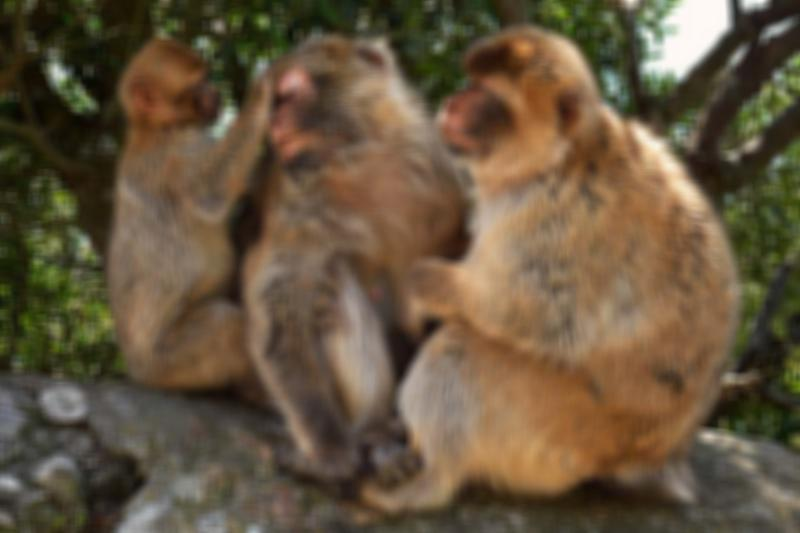
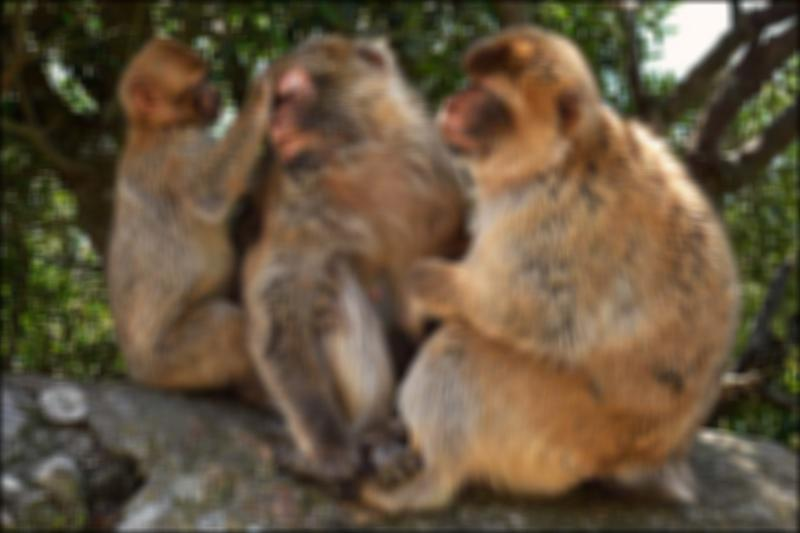
Improved gausian blur, speed and correctness

diff --git a/gausian_blur.py b/gausian_blur.py
@@ -1,36 +1,48 @@
 import numpy as np 
 from PIL import Image
 
+def gausian_blur(im, kernel):
+	''' 
+	A function that convolves im with kernel. The edges outside the image is handled as 0
+	
+	Args:
+		im: np.array of shape [H, W, 3]
+		kernel: np.array of shape [K, K]
+	
+	Returns:
+		np.array of shape [H, W, 3]
+	'''
+
+	padding = int((kernel.shape[0]-1)/2)
+
+	# add a border of zeros to make life simpler inside the for-loops
+	# pads im with zero in top, bottom, left, right, but not in color
+	pad_im = np.pad(im, ((padding,padding), (padding,padding), (0,0)), 'constant')
+
+	blurred = np.zeros(im.shape)
+
+	for row in range(padding, im.shape[0] + padding): # rows
+		for col in range(padding, im.shape[1] + padding): # columns
+			for color in range(im.shape[2]): # colors
+				# pick out a part of the image
+				part = pad_im[row-padding:row+padding+1, col-padding:col+padding+1, color]
+
+				value = int(round(sum(sum(kernel*part))))
+
+				# setting the value
+				blurred[row-padding, col-padding, color] = value
+
+	return blurred
+
 image_name = 'image_0'
 picture = Image.open('images/original/' + image_name + '.jpg')
 array = np.array(picture)
 
-blurred = np.zeros(array.shape)
-
-print(array.shape) # (rows, columns, colors)
-
 filter_size = 11 # must be odd
 filter_value = 1 
+gaus = np.full((filter_size, filter_size), filter_value) / (filter_size*filter_size)
 
-# the range to loop over for our filter
-start = int(-((filter_size - 1) / 2))	
-end   = int(((filter_size - 1) / 2) + 1)
-
-gaus = np.full((filter_size, filter_size), filter_value)
-
-for row in range(array.shape[0]): # rows
-	for col in range(array.shape[1]): # columns
-		for color in range(array.shape[2]): # colors
-			value = 0 # the total value of pixels
-			num_values = 0 # will most times be filter_size^2, but not on the edges
-			for r in range(start, end):
-				for c in range(start, end):
-					if row + r > 0 and row + r < array.shape[0] and col + c > 0 and col + c < array.shape[1]:
-						# we are inside the bounds
-						value += gaus[r][c]*array[row+r][col+c][color]
-						num_values += 1
-
-			blurred[row][col][color] = value/num_values # mean of the values
+blurred = gausian_blur(array, gaus)
 
 blurred_image = Image.fromarray(blurred.astype('uint8'))
 blurred_image.show()
